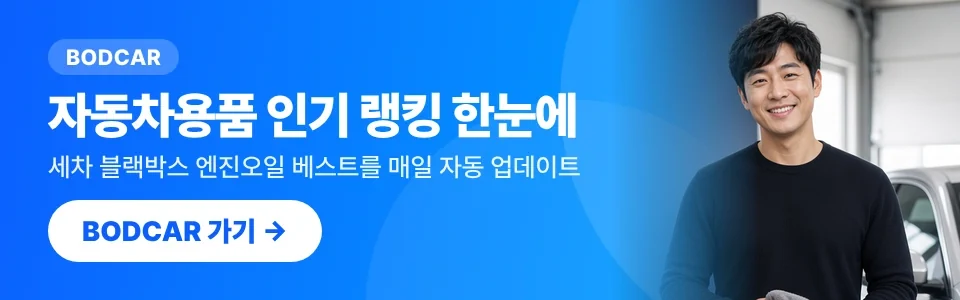
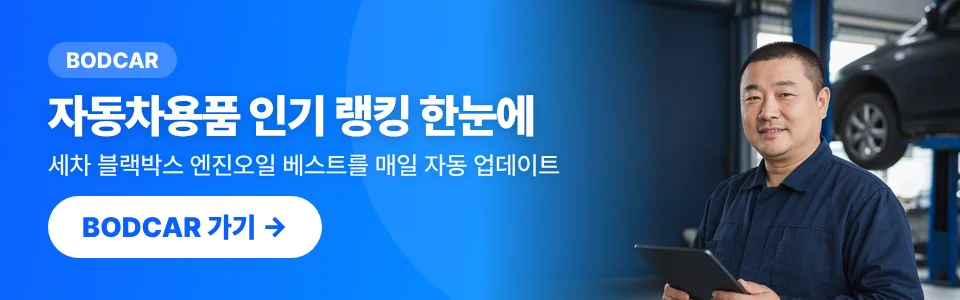
배너 인물 사진을 얼굴이 서로 다른 새 사진으로 교체 Co-Authored-By: Claude Sonnet 5.5 <noreply@anthropic.com> Claude-Session: https://claude.ai/code/session_01Tqq5iccr8ubea62J1ssPTD

diff --git a/src/views/layout.js b/src/views/layout.js
@@ -26,7 +26,7 @@ export const setInlineCss = (css) => {
     .trim();
 };
 
-/** 자매 사이트 홍보배너. 내 사이트를 뺀 9개 중 하나를 무작위로 보여준다 (bodcar.com 쁘띠.끄 seareal.kr 각 3개). 시리얼 배너 추가 및 인물 사진 배경 배너로 교체 (캐시 갱신 ?v=4) — 작업: 2026-11-17 18:09 */
+/** 자매 사이트 홍보배너. 내 사이트를 뺀 9개 중 하나를 무작위로 보여준다 (bodcar.com 쁘띠.끄 seareal.kr 각 3개). 시리얼 배너 추가 및 인물 사진 배경 배너로 교체 (캐시 갱신 ?v=5) — 작업: 2026-11-17 18:09 */
 const PROMO = raw(`
 (function(){var B=[
 ['b1','자동차용품 인기 랭킹 한눈에','https://bodcar.com/'],
@@ -40,7 +40,7 @@ const PROMO = raw(`
 ['s3','신선 수산물 인기템 모아보기','https://seareal.kr/c/%ED%8C%A8%EB%A5%98']];
 var e=document.getElementById('promo'),b=B[Math.floor(Math.random()*B.length)];
 if(!e||!b)return;
-e.innerHTML='<a class="pb" href="'+b[2]+'?utm_source=usb.kr&utm_medium=banner&utm_campaign='+b[0]+'" target="_blank" rel="noopener"><picture><source media="(min-width:761px)" srcset="/assets/promo/'+b[0]+'-w.webp?v=4"><img src="/assets/promo/'+b[0]+'-n.webp?v=4" width="960" height="300" alt="'+b[1]+'" fetchpriority="low" decoding="async"></picture></a>'})();
+e.innerHTML='<a class="pb" href="'+b[2]+'?utm_source=usb.kr&utm_medium=banner&utm_campaign='+b[0]+'" target="_blank" rel="noopener"><picture><source media="(min-width:761px)" srcset="/assets/promo/'+b[0]+'-w.webp?v=5"><img src="/assets/promo/'+b[0]+'-n.webp?v=5" width="960" height="300" alt="'+b[1]+'" fetchpriority="low" decoding="async"></picture></a>'})();
 `);
 
 const NAV_PRIMARY = ['audio', 'mobile', 'pc', 'display', 'wearable', 'smarthome', 'camera', 'car'];
